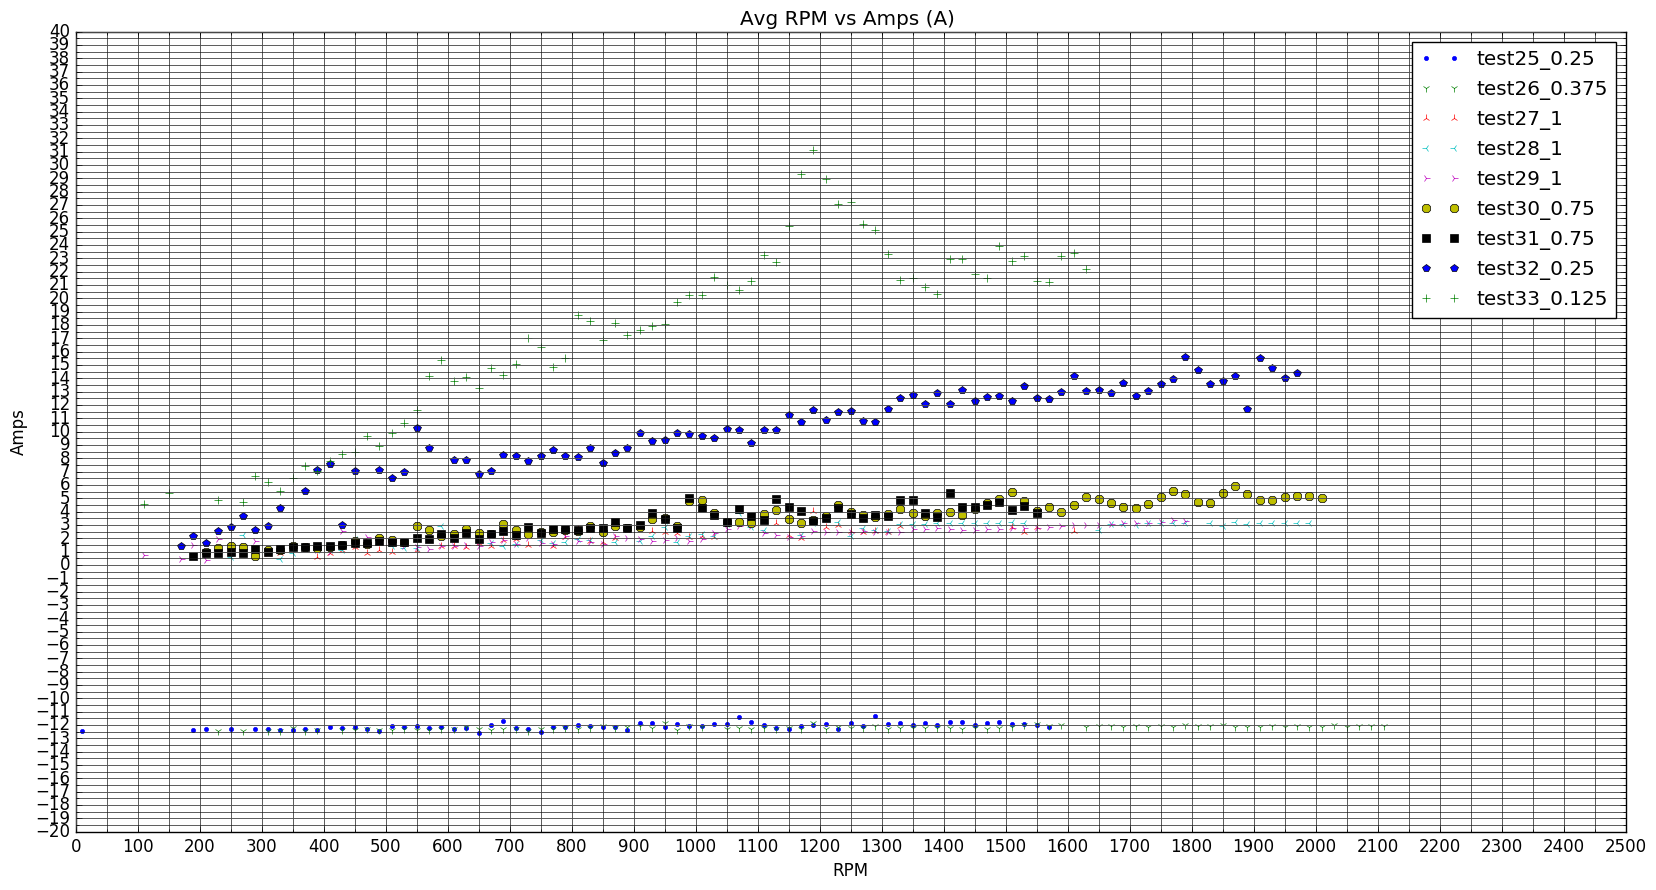
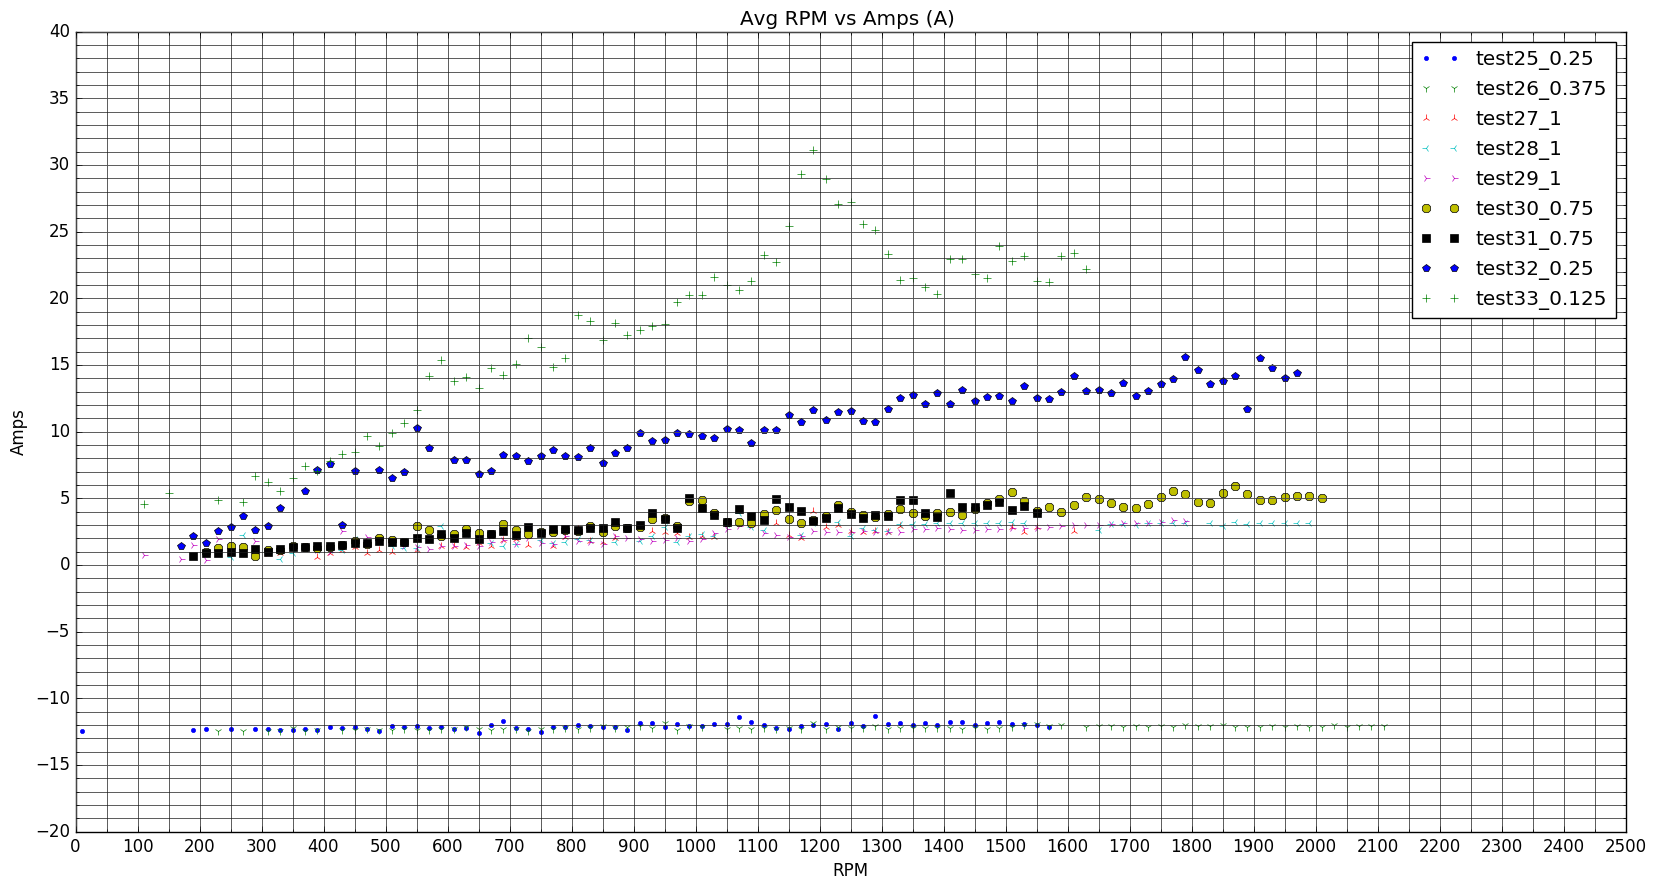
Changed major/minor lines for the amp output compare graph

diff --git a/TestingRigUtil/process_util.py b/TestingRigUtil/process_util.py
@@ -375,8 +375,8 @@ if(do_compare):
     plt.grid(b=True, which='minor', color='0.10',linestyle='-')
     ax.xaxis.set_major_locator(ticker.MultipleLocator(100))
     ax.xaxis.set_minor_locator(ticker.MultipleLocator(50))
-    ax.yaxis.set_major_locator(ticker.MultipleLocator(1))
-    ax.yaxis.set_minor_locator(ticker.MultipleLocator(0.5))
+    ax.yaxis.set_major_locator(ticker.MultipleLocator(5))
+    ax.yaxis.set_minor_locator(ticker.MultipleLocator(1))
     print("\tSaving avg RPM vs AMP plot for all tests")
     if(dual):
         fig.savefig(output_directory + test_names[0].replace("right",'').replace("left", '')+"dual_rpm_vs_amp.png", bbox_inches='tight' )
